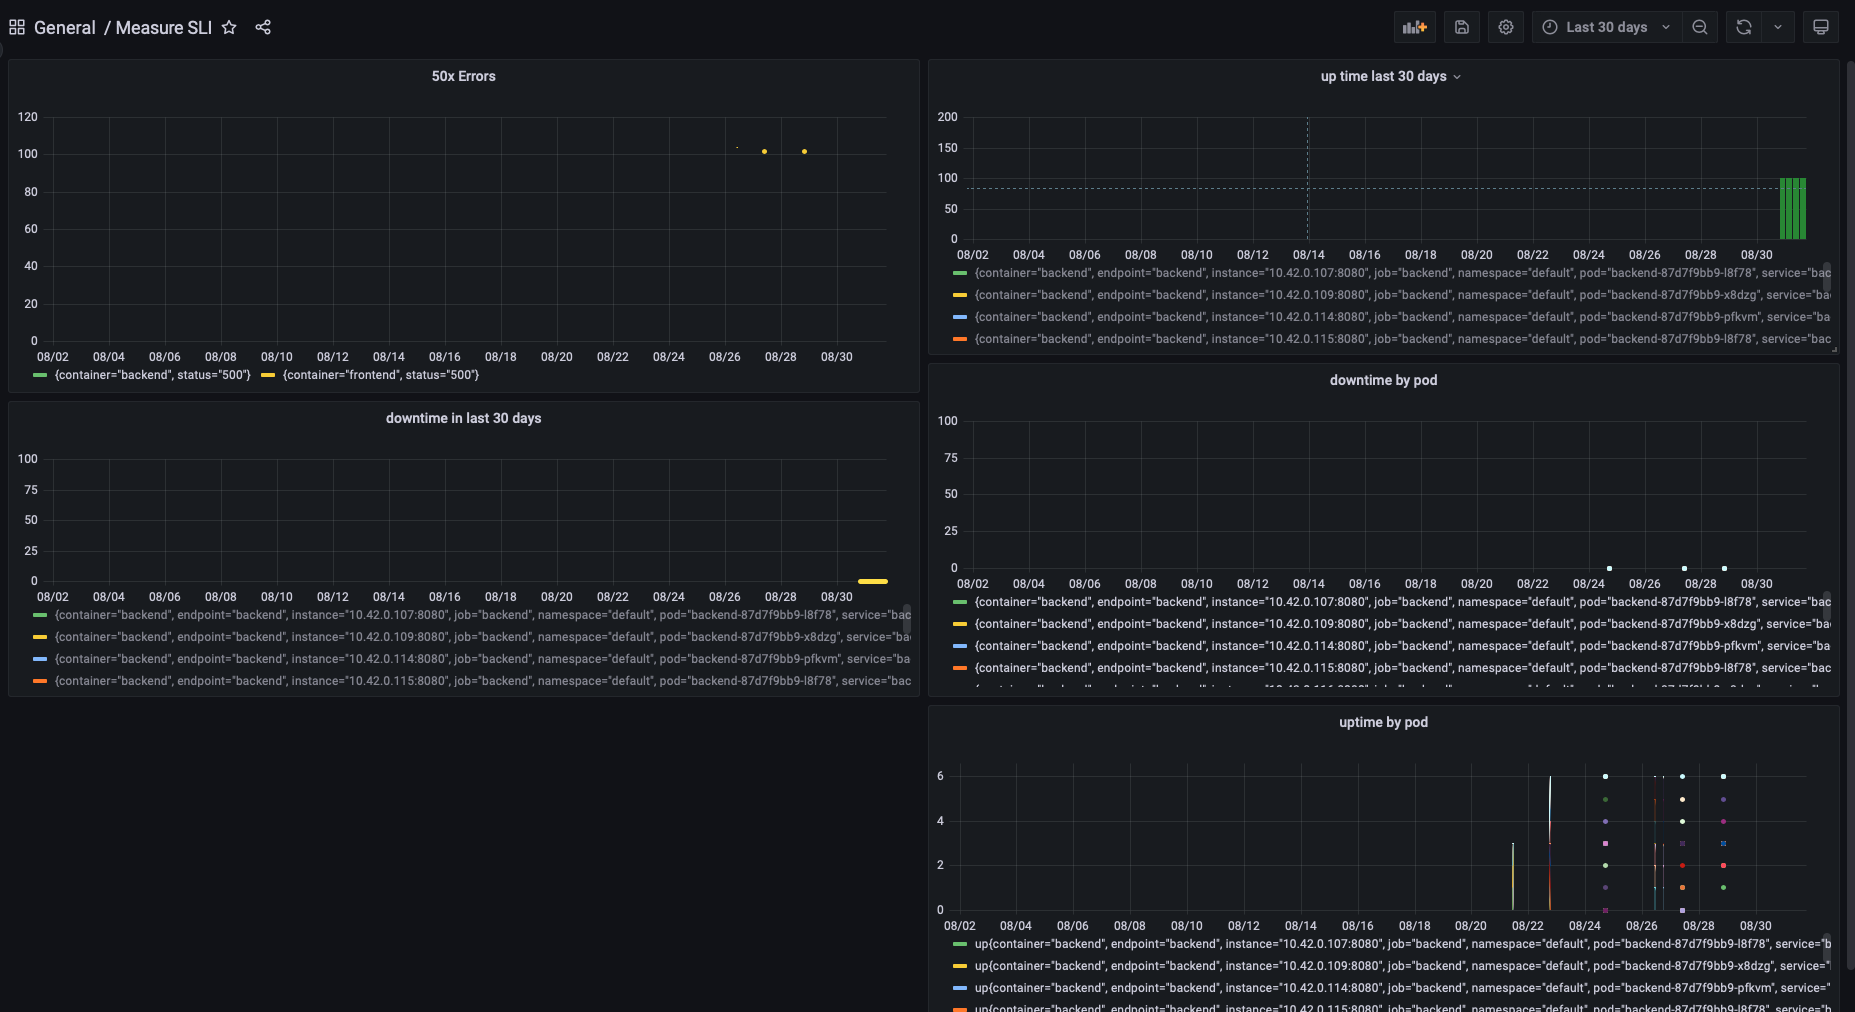
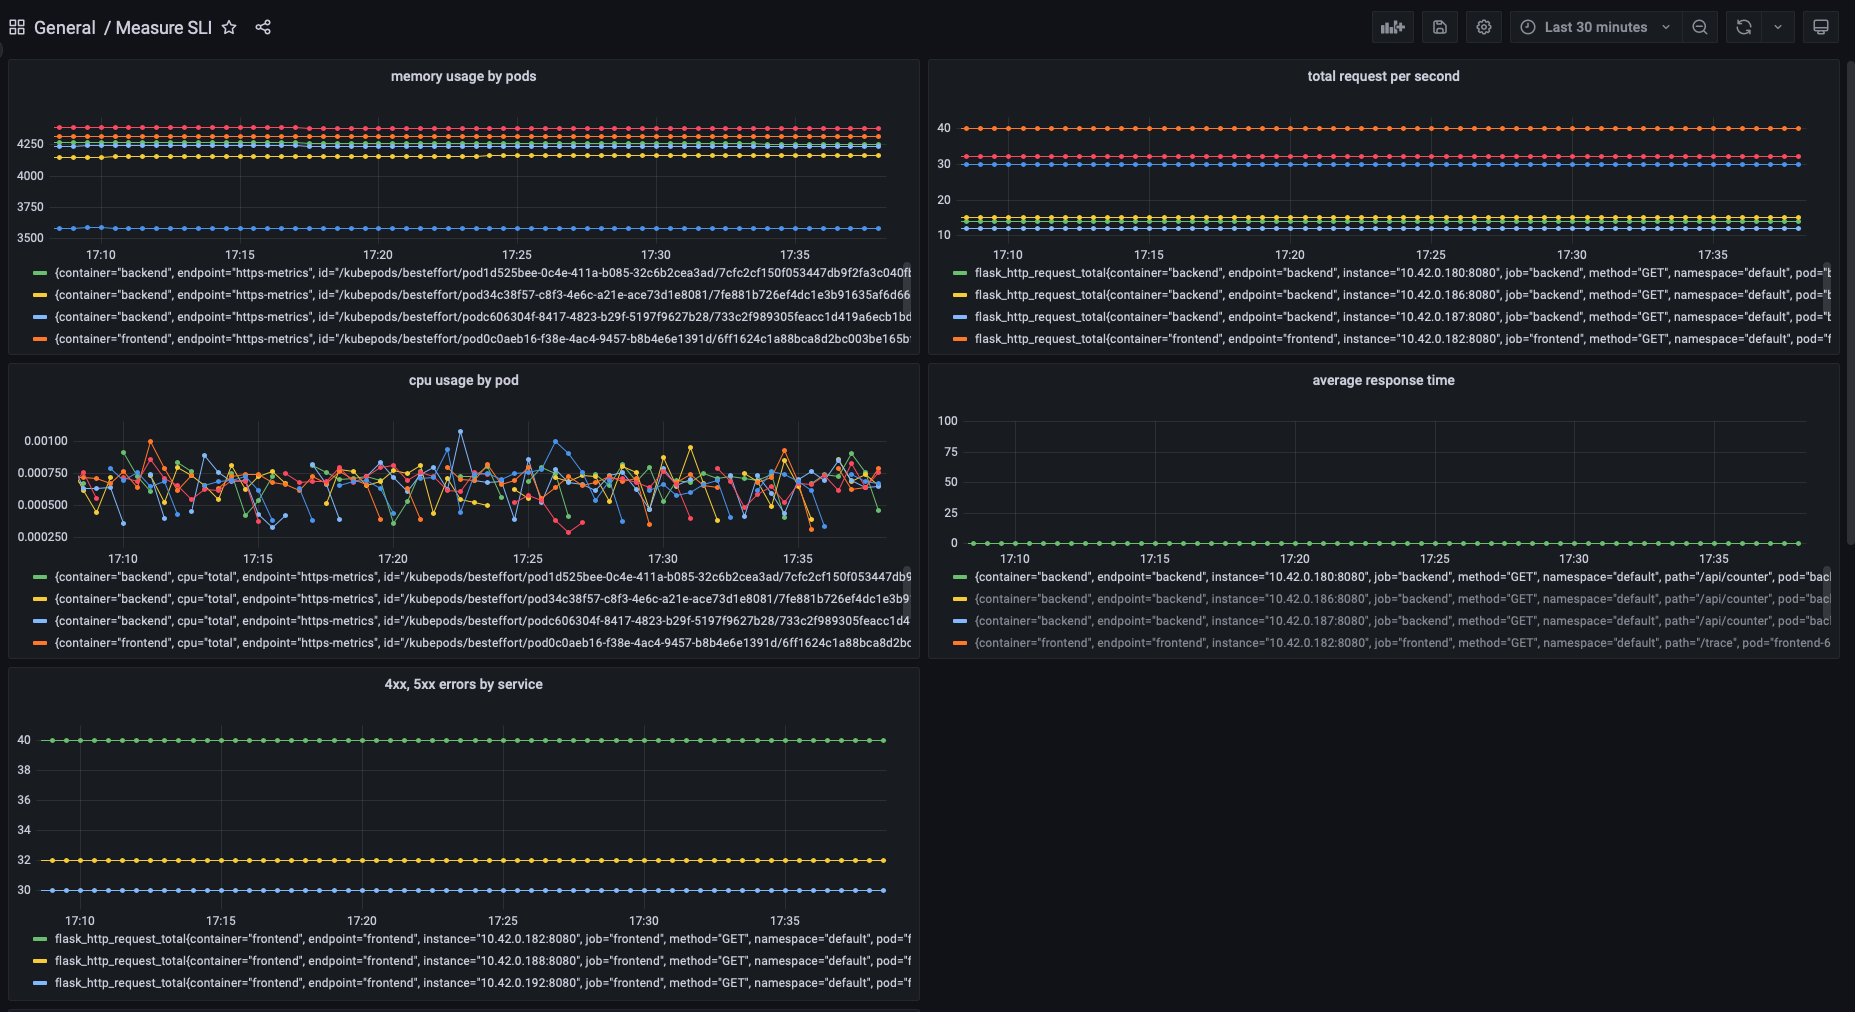
11th commit

diff --git a/README.md b/README.md
@@ -23,19 +23,17 @@ screenshot ![Alt text](answer-img/prometheus_datasource_grafana.png)
 SLO's are performance objectives which are measured internally. SLI's are specific metrics to measure SLOs monthly uptime and request response time. These metrics will help us determine if we are meeting SLOs for the application reliability and latency.
 
 
-## Creating SLI metrics.
+## Describe in detail 5 metrics to measure SLIs.
 
-Five SLI metrics are below.
+Five metrics to measure SLI
 
-Total 500 Errors - sum(flask_http_request_total{container=~"backend|frontend",status=~"500"}) by (status,container)
-
-avg over time uptime last 30 days - avg_over_time(up{container=~"backend|frontend"}[1d]) * 100
-
-avg over time downtime last 30 days - (1- (avg_over_time(up{job=~"backend|frontend"} [1d]) > 0 )) * 100
-
-uptime 30 days - up{container=~"backend|frontend"}
-
-downtime 30 days - (1- up{container=~"backend|frontend"})
+1  Latency: Latency is the time required to send a request and receive a response.
+2. Traffic: Traffic is a measure of request numbers passing through the network. These can be HTTP requests sent to your web or API server, 
+            or   messages sent to a processing queue.
+3. Errors: Errors can tell you about a bug in your code, an unresolved dependency, or configuration errors in your infrastructure.
+4. Saturation: Saturation is defined as the load on the resources of your server like network and CPU. Each resource has a limit beyond 
+               which performance degrades or becomes totally unavailable.
+5. Availability: Availability refers to the uptime of a website and directly relates to uptime of website on webserver.
 
 
 ## Create a Dashboard to measure our SLIs
@@ -82,12 +80,12 @@ Description:JSONDecodeError: There seems to issue with value not found on functi
 ## Creating SLIs and SLOs
 *TODO:* We want to create an SLO guaranteeing that our application has a 99.95% uptime per month. Name four SLIs that you would use to measure the success of this SLO.
 
-SLI
+                         SLI                                                 SLO
 
-Error,
-traffic,
-latency,
-saturation
+Error                  10 failure within 5 mins                           error budget 10% 
+availability           99.95%  successful request                         99.95 %   
+latency                99.95% of request finish within 5 mins             99.95% for request below 100 ms
+Saturation             99% cpu usage below 80% every month                cpu below 80%             
 
 
 
